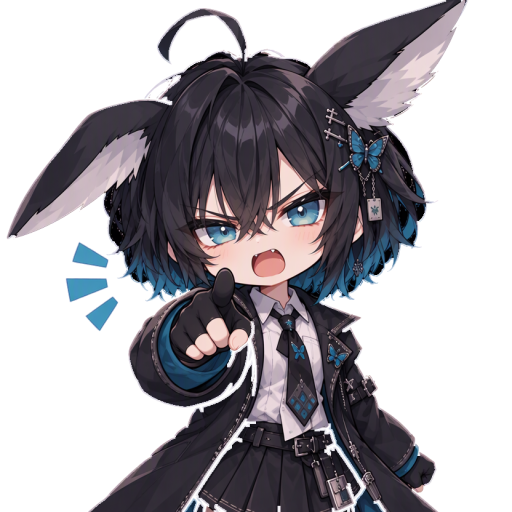
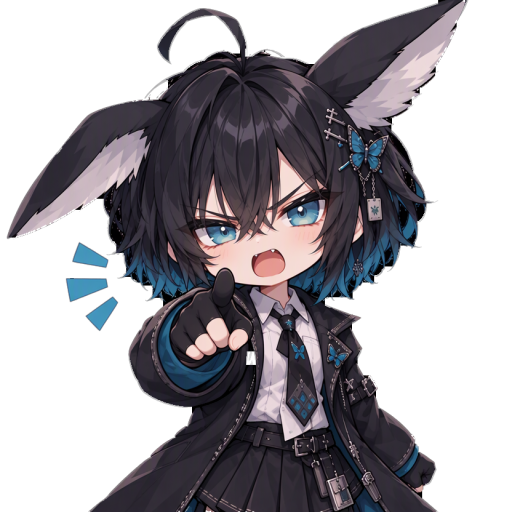
Fix : Objection and polaroid stickers no longer have holes and a light rim (needs function deploy)
- Objection (cut from black): thin black shadows inside her coat, skirt and arm had been removed with the background, so LINE's white preview showed jagged white lines through her; those gaps are filled with black again and the light rim around her outline is removed
- Polaroid (cut from white): small gaps in the speech bubble corners, photo card and face showed as black specks on dark backgrounds; gaps inside light areas are filled with white again
- Dashboard WebP copies remade; ASSET_VERSION bumped to 3 so LINE fetches the fixed stickers

diff --git a/supabase/functions/_shared/lineCard.ts b/supabase/functions/_shared/lineCard.ts
@@ -7,7 +7,7 @@ export const SITE_URL = 'https://personal-dashboard-opal-gamma.vercel.app';
 // LINE caches images by their address, so a changed banner or sticker at the same address keeps
 // showing the old picture. Bump this whenever an image in public/line-cards/ or
 // public/line-stickers/ changes; LINE then sees new addresses and fetches the new files.
-export const ASSET_VERSION = '2';
+export const ASSET_VERSION = '3';
 
 /** Address of an image on the site, with the asset version LINE caches by. */
 export const assetUrl = (path: string) => `${SITE_URL}/${path}?v=${ASSET_VERSION}`;
